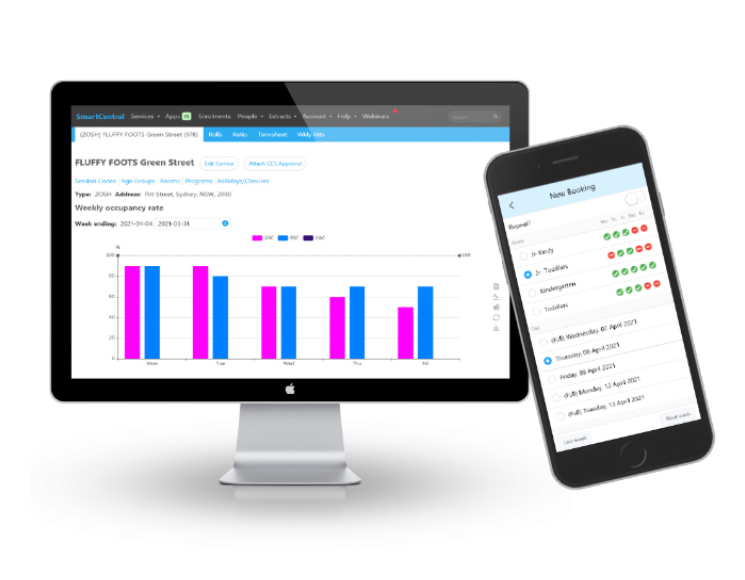
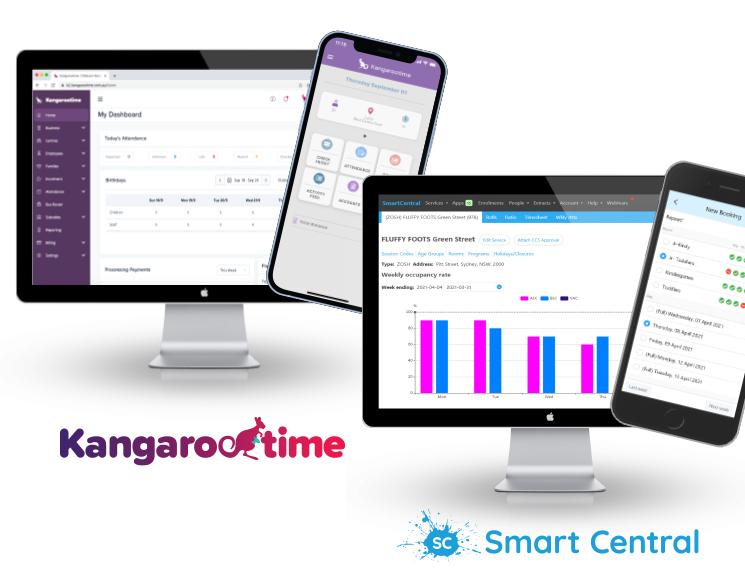
kt added

diff --git a/faq.html b/faq.html
@@ -142,10 +142,10 @@ title: ECE reporting made easy, parent communication, Kinderloop
         <div class="span10">
 
             <img src="assets/img/feature-CCS.jpg" width="380">
-            <h3 class="name text-green">CCS & attendance</h3>
+            <h3 class="name text-green">CCMS & attendance</h3>
             <p class="description">
 				<p>Amazingly simple CCS, easy integration</p>
-				<p>We have teamed up with Smart Central, a simpler, yet more powerful way to reduce your CCS workload and manage everyday office tasks.</p>
+				<p>We have teamed up with Smart Central & Kangarootime, a simpler, yet more powerful way to reduce your CCMS workload and manage everyday office tasks.</p>
             </p>
         </div>
     </div>
